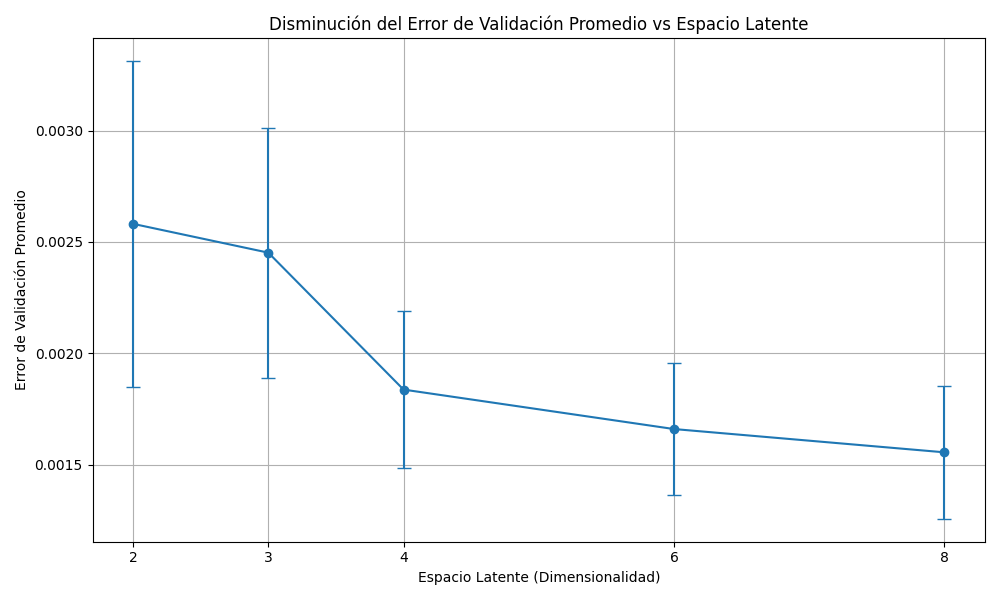
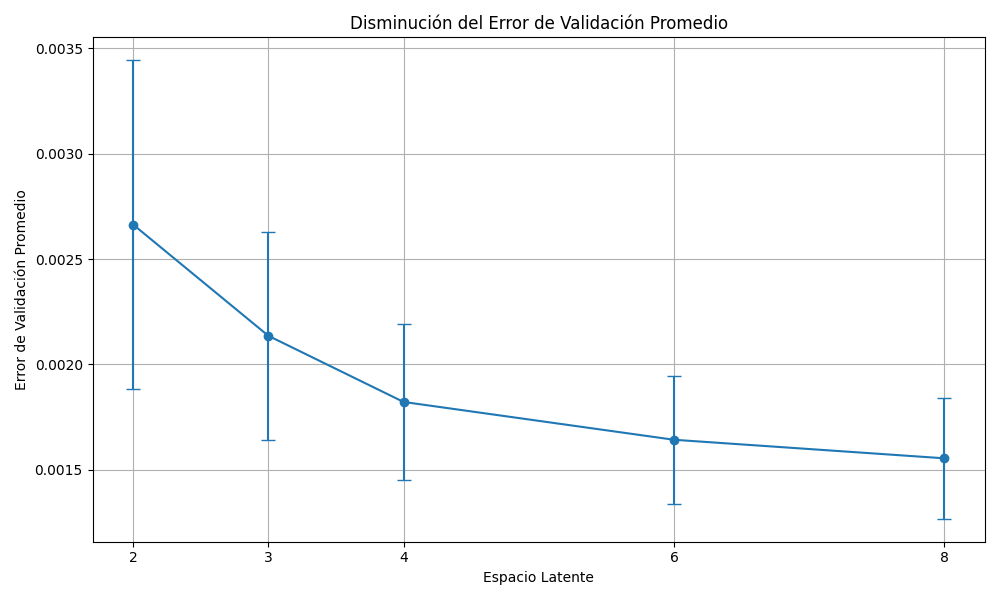
new plots for training experiments

diff --git a/model/generate_plots.py b/model/generate_plots.py
@@ -21,6 +21,7 @@ versions = [f"version_{i}" for i in range(6)]
 
 data_str = ""
 
+# 1. Generación del String de Datos
 for experiment in experiments:
     for latentdim_experiment in latentdim_experiments:
         val_losses = []
@@ -60,8 +61,10 @@ for experiment in experiments:
         )
 
 
+# 2. Parseo Unificado (Una sola vez para todo)
 records = {}
-pattern = r"Experiment: experiment_latent_dim_([a-z]+)_small, Latent Dim: vae_latentdim_(\d+), Min (Val|Train) Loss: ([\d\.]+)"
+# Actualizamos el regex para capturar también la Época al final de la línea
+pattern = r"Experiment: experiment_latent_dim_([a-z]+)_small, Latent Dim: vae_latentdim_(\d+), Min (Val|Train) Loss: ([\d\.]+), Min (?:Val|Train) Loss Epoch: ([\d\.]+)"
 
 for line in data_str.strip().split("\n"):
     match = re.search(pattern, line)
@@ -70,6 +73,7 @@ for line in data_str.strip().split("\n"):
         dim = int(match.group(2))
         loss_type = match.group(3)
         loss_val = float(match.group(4))
+        epoch_val = float(match.group(5))  # Capturamos la época
 
         key = (inst, dim)
         if key not in records:
@@ -77,10 +81,18 @@ for line in data_str.strip().split("\n"):
 
         if loss_type == "Val":
             records[key]["Error Validación"] = loss_val
+            records[key]["Min Val Loss Epoch"] = epoch_val  # Guardamos época val
+
+        elif loss_type == "Train":
+            records[key]["Error Entrenamiento"] = loss_val
+            # Opcional: records[key]["Min Train Loss Epoch"] = epoch_val
 
 df = pd.DataFrame(records.values())
 df = df.sort_values(by=["Instrumento", "Espacio Latente"])
 
+# ---------------------------------------------------------
+# Plot 1: Validación por Instrumento
+# ---------------------------------------------------------
 plt.figure(figsize=(10, 6))
 
 for instrument in df["Instrumento"].unique():
@@ -101,34 +113,14 @@ plt.xticks(sorted(df["Espacio Latente"].unique()))
 plt.tight_layout()
 plt.savefig("imgs/val_loss_vs_latent_dim.png")
 
-
-records = {}
-pattern = r"Experiment: experiment_latent_dim_([a-z]+)_small, Latent Dim: vae_latentdim_(\d+), Min (Val|Train) Loss: ([\d\.]+)"
-
-for line in data_str.strip().split("\n"):
-    match = re.search(pattern, line)
-    if match:
-        inst = match.group(1).capitalize()
-        dim = int(match.group(2))
-        loss_type = match.group(3)
-        loss_val = float(match.group(4))
-
-        key = (inst, dim)
-        if key not in records:
-            records[key] = {"Instrumento": inst, "Espacio Latente": dim}
-
-        if loss_type == "Val":
-            records[key]["Error Validación"] = loss_val
-
-df = pd.DataFrame(records.values())
-
-# Aggregate by Latent Dimension
+# ---------------------------------------------------------
+# Plot 2: Promedio General con Desviación Estándar
+# ---------------------------------------------------------
 stats = (
     df.groupby("Espacio Latente")["Error Validación"].agg(["mean", "std"]).reset_index()
 )
 
 plt.figure(figsize=(10, 6))
-
 plt.errorbar(
     stats["Espacio Latente"],
     stats["mean"],
@@ -138,10 +130,91 @@ plt.errorbar(
     label="Promedio general",
 )
 
-plt.xlabel("Espacio Latente (Dimensionalidad)")
+plt.xlabel("Espacio Latente")
 plt.ylabel("Error de Validación Promedio")
-plt.title("Disminución del Error de Validación Promedio vs Espacio Latente")
+plt.title("Disminución del Error de Validación Promedio")
 plt.grid(True)
 plt.xticks(sorted(stats["Espacio Latente"].unique()))
 plt.tight_layout()
 plt.savefig("imgs/val_loss_mean_std.png")
+
+# ---------------------------------------------------------
+# Plot 3: Mejora Porcentual (Rendimientos Decrecientes)
+# ---------------------------------------------------------
+stats_mean = df.groupby("Espacio Latente")["Error Validación"].mean().sort_index()
+improvements = -stats_mean.pct_change() * 100
+improvements = improvements.dropna()
+
+labels = [
+    f"{prev}->{curr}" for prev, curr in zip(stats_mean.index[:-1], stats_mean.index[1:])
+]
+
+plt.figure(figsize=(10, 6))
+bars = plt.bar(labels, improvements, color="#4c72b0", zorder=3)
+
+for bar in bars:
+    height = bar.get_height()
+    plt.text(
+        bar.get_x() + bar.get_width() / 2.0,
+        height + 0.1,
+        f"{height:.1f}%",
+        ha="center",
+        va="bottom",
+        fontweight="bold",
+    )
+
+plt.title("Mejora Porcentual del Error al Aumentar Dimensiones")
+plt.xlabel("Incremento en Espacio Latente")
+plt.ylabel("Reducción del Error (%)")
+plt.grid(axis="y", linestyle="--", alpha=0.7)
+plt.tight_layout()
+plt.savefig("imgs/improvement_percentage.png")
+
+# ---------------------------------------------------------
+# Plot 4: Gap de Generalización (Train vs Val)
+# ---------------------------------------------------------
+stats_train = df.groupby("Espacio Latente")["Error Entrenamiento"].mean()
+stats_val = df.groupby("Espacio Latente")["Error Validación"].mean()
+
+plt.figure(figsize=(10, 6))
+plt.plot(stats_val.index, stats_val.values, marker="o", label="Validación", linewidth=2)
+plt.plot(
+    stats_train.index,
+    stats_train.values,
+    marker="s",
+    label="Entrenamiento",
+    linestyle="--",
+    alpha=0.7,
+)
+
+plt.fill_between(
+    stats_val.index, stats_train.values, stats_val.values, alpha=0.1, color="gray"
+)
+
+plt.xlabel("Espacio Latente")
+plt.ylabel("Loss Promedio")
+plt.title("Gap de Generalización: Entrenamiento vs Validación")
+plt.legend()
+plt.grid(True)
+plt.xticks(sorted(df["Espacio Latente"].unique()))
+plt.tight_layout()
+plt.savefig("imgs/train_vs_val_gap.png")
+
+# ---------------------------------------------------------
+# Plot 5: Velocidad de Convergencia
+# ---------------------------------------------------------
+# Ahora esto funcionará porque parseamos 'Min Val Loss Epoch' arriba
+stats_epochs = df.groupby("Espacio Latente")["Min Val Loss Epoch"].mean()
+
+plt.figure(figsize=(10, 6))
+plt.plot(
+    stats_epochs.index, stats_epochs.values, marker="D", color="green", linestyle="-."
+)
+
+plt.xlabel("Espacio Latente")
+plt.ylabel("Época del Mínimo Error (Validación)")
+plt.title("Velocidad de Convergencia Promedio")
+plt.grid(True)
+plt.xticks(sorted(df["Espacio Latente"].unique()))
+plt.tight_layout()
+plt.savefig("imgs/convergence_speed.png")
